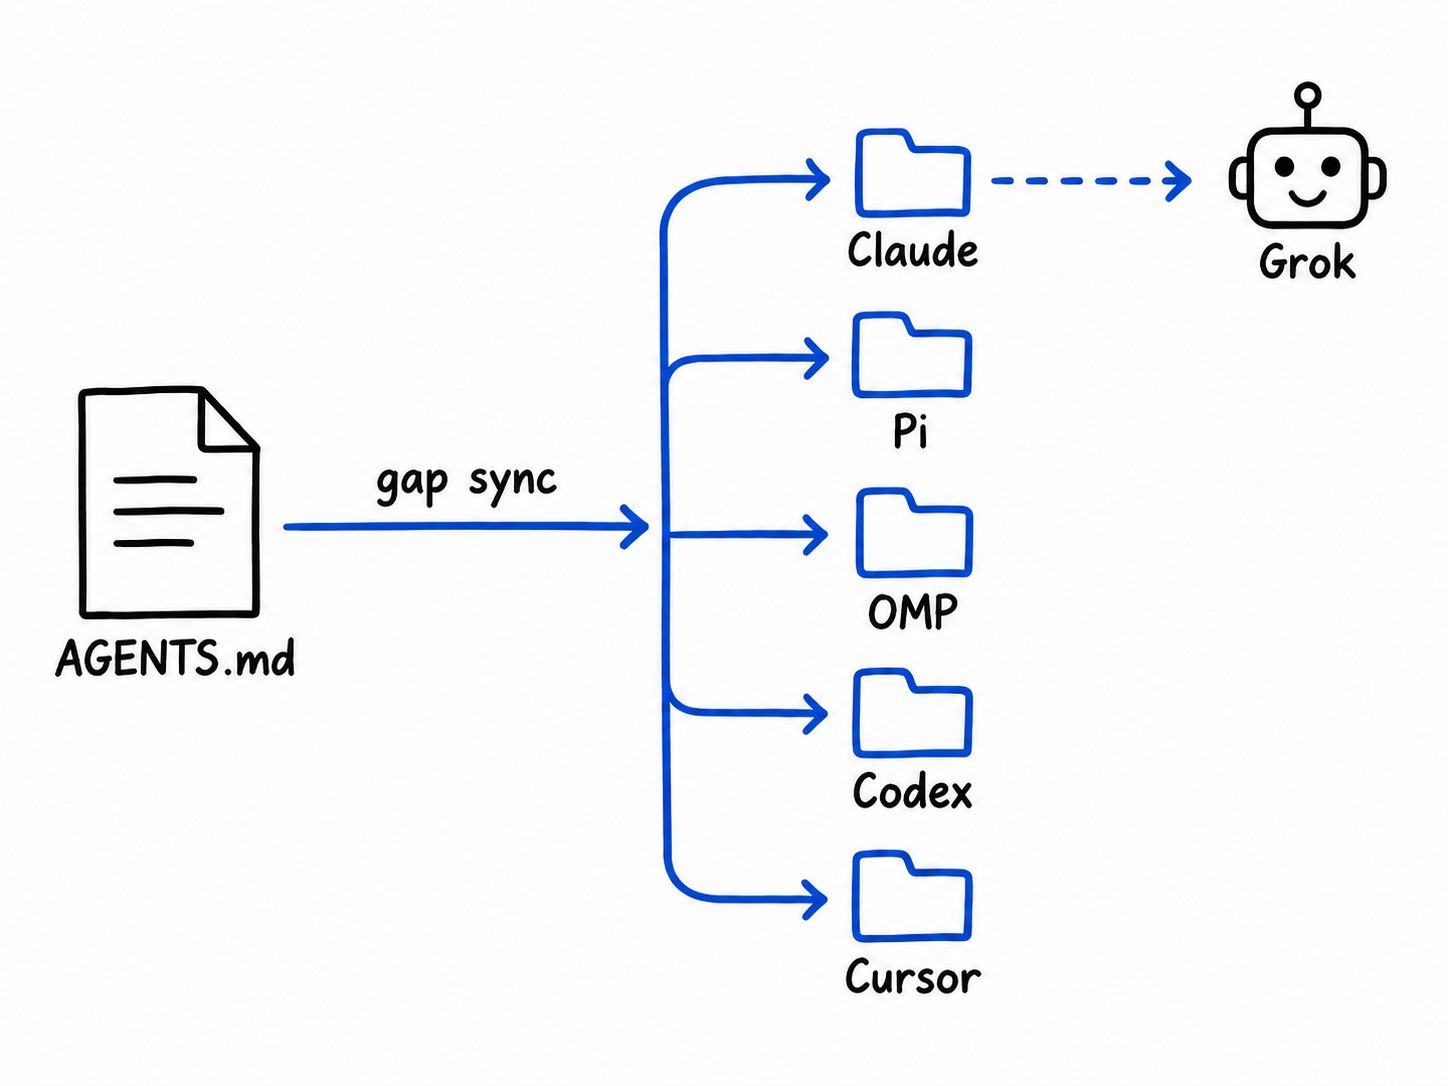
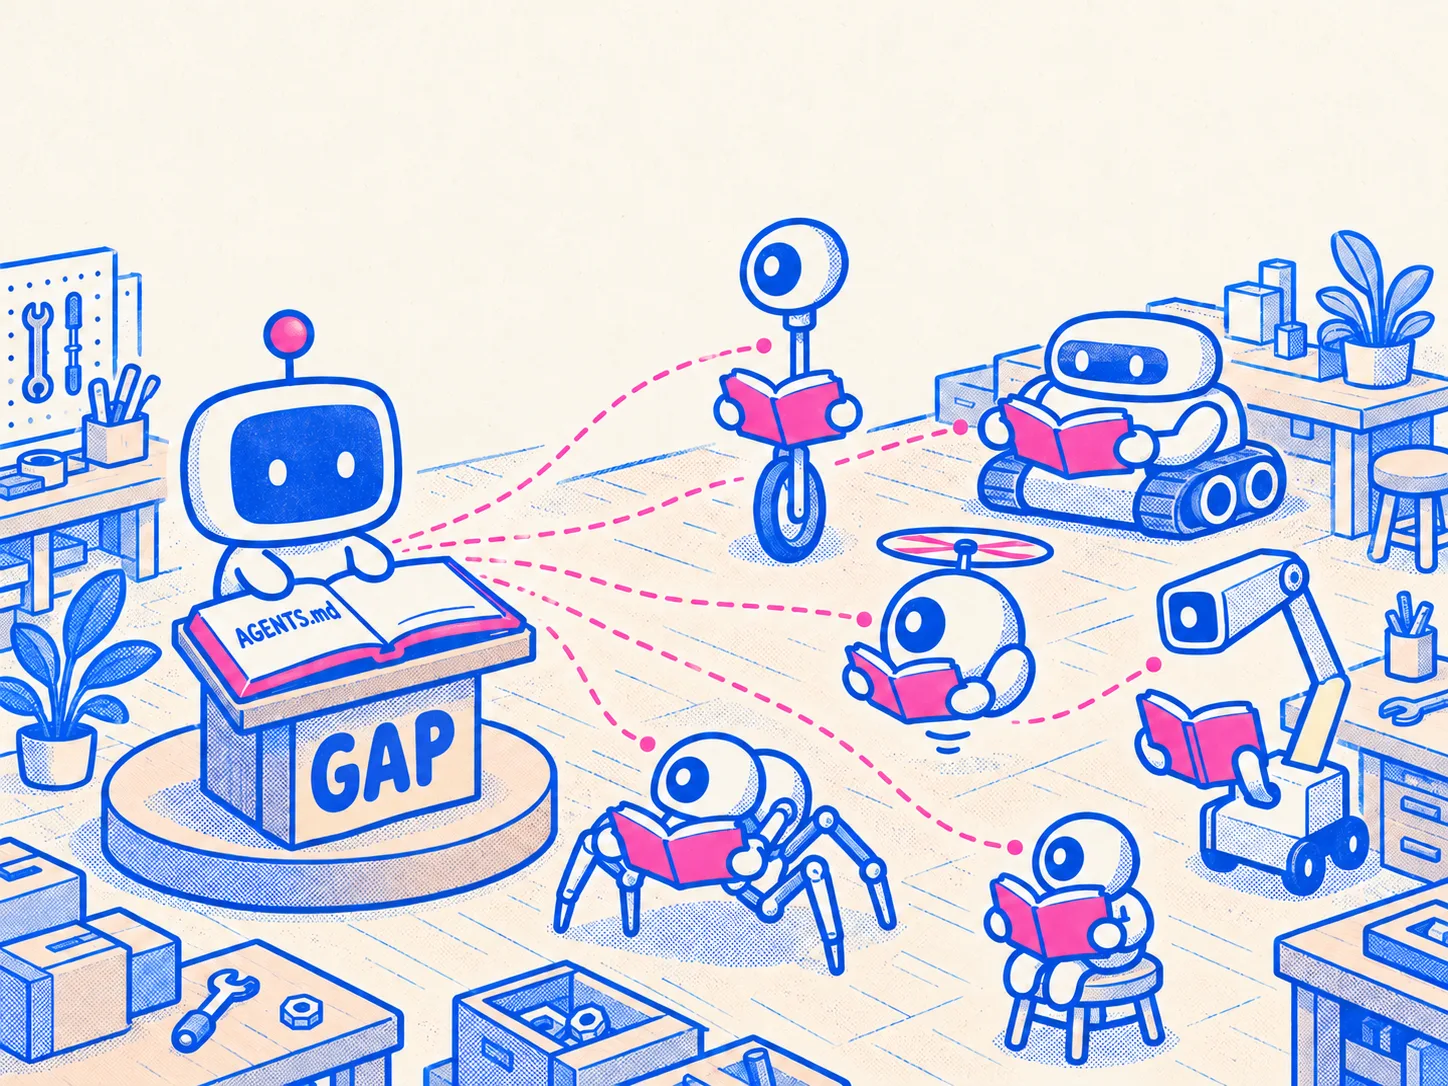
docs(readme): redraw README images with Blip
- hero shows one GAP rulebook shared by a crew of different agents
- Codex hooks diagram redrawn in the same risograph look
- alt text updated; images shrink from 1.4 MB to 380 KB

diff --git a/README.md b/README.md
@@ -11,7 +11,7 @@
 
 GAP is one set of rules that every coding agent on your machine follows. You, or an agent, write the rules once in `global/AGENTS.md`. The `gap sync` command copies them into the file each agent already reads.
 
-![One AGENTS.md file, published by gap sync into Claude, Pi, OMP, Codex, and Cursor. Grok reads the Claude copy.](docs/images/publish-overview.webp)
+![Blip keeps the AGENTS.md rulebook on a GAP lectern while a crew of very different robots each works from the same copy.](docs/images/publish-overview.webp)
 
 ## Before you start
 
@@ -201,7 +201,7 @@ Any other answer leaves that file alone. With no terminal to ask in, such as an 
 
 Codex has no rules folder. The first `gap sync` adds two hooks to `~/.codex/hooks.json`, SessionStart and SubagentStart. They print `~/.codex/gap/global-agent-policy.md` into every Codex session and subagent.
 
-![Two hooks, SessionStart and SubagentStart, cat ~/.codex/gap/global-agent-policy.md into each Codex session and subagent.](docs/images/codex-hooks.webp)
+![Blip slides the policy out of ~/.codex/gap. Two hooks, SessionStart and SubagentStart, cat ~/.codex/gap/global-agent-policy.md into each Codex session and subagent.](docs/images/codex-hooks.webp)
 
 1. Open Codex and run `/hooks`. Trust both GAP hooks.
 2. Start a session and a subagent. Confirm both see the policy.
